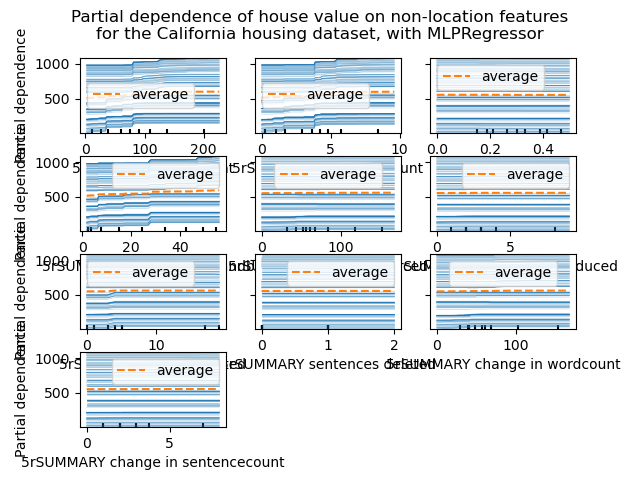
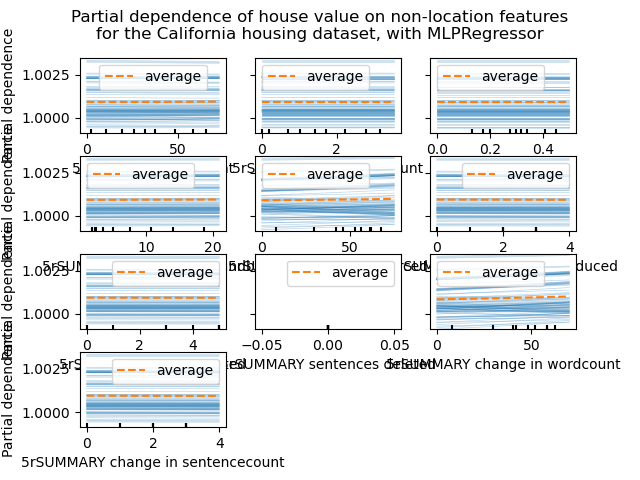
continuous ml

diff --git a/backend/roadblock_ml.py b/backend/roadblock_ml.py
@@ -1,4 +1,5 @@
 import pandas as pd
+from regex import R
 from sklearn.model_selection import train_test_split, cross_val_score
 from sklearn.ensemble import RandomForestRegressor, RandomForestClassifier
 from sklearn.tree import DecisionTreeRegressor
@@ -24,12 +25,28 @@ def rb_ml():
     data = data.dropna()
 
     # training and testing sets, 80/20 ratio
-    label = data["roadblock"]
+    label = data["standby"]
+    label = label.shift(periods=-59)
+    label = label.dropna()
+    label = label.astype('int')
 
+    data = data.drop("roadblock", axis=1)
     data = data.drop("5rSUMMARY roadblock number", axis=1)
+    data = data.drop("5rSUMMARY standby", axis=1)
+    data = data.drop("5rSUMMARY number of standby", axis=1)
     data = data.drop("roadblock number", axis=1)
     data = data.drop("Unnamed: 0", axis=1)
-    x_train_set, x_test_set, y_train_set, y_test_set = train_test_split(data, label, test_size=0.4, random_state=42)
+
+    data = data.shift(periods=59)
+    # print(data)
+    data = data.dropna()
+    # print(data)
+    # x_train_set, x_test_set, y_train_set, y_test_set = train_test_split(data, label, test_size=0.4, shuffle=False)
+    x_train_set = data.iloc[:-59 , :]
+    x_test_set = data.tail(59)
+    y_train_set = label.iloc[:-59]
+    y_test_set = label.tail(59)
+    print(y_test_set)
 
     # models
     svc = SVC()
@@ -67,9 +84,9 @@ def rb_ml():
     print(roadblock_f1_score)
     precision, recall, thresholds = precision_recall_curve(y_test_set, testing_predictions)
     # pr, tpr, thresholds = roc_curve(y_test_set, scores)
-    plt.plot(thresholds, precision[:-1], label='precision')
+    # plt.plot(thresholds, precision[:-1], label='precision')
     # plt.plot(thresholds, recall[:-1], label='recall')
-    plt.show()
+    # plt.show()
     # print(fpr)
     # print(tpr)
 
@@ -104,10 +121,11 @@ def rb_ml():
     # plt.gcf()
     # plt.gca()
     # plt.use('Agg')
+    """
     display = PartialDependenceDisplay.from_estimator(
         svc,
         x_train_set,
-        features=["5rSUMMARY wordcount", "5rSUMMARY sentencecount", "5rSUMMARY standby", "5rSUMMARY number of standby", "5rSUMMARY words produced", "5rSUMMARY sentences produced", "5rSUMMARY words deleted", "5rSUMMARY sentences deleted", "5rSUMMARY change in wordcount", "5rSUMMARY change in sentencecount"],
+        features=["5rSUMMARY wordcount", "5rSUMMARY sentencecount", "5rSUMMARY standby", "5rSUMMARY number of standby", "5rSUMMARY words produced", "5rSUMMARY sentences produced", "5rSUMMARY words deleted", "5rSUMMARY sentences deleted", "5rSUMMARY change in wordcount", "5rSUMMARY change in sentencecount", "5rSUMMARY standby"],
         kind="both"
     )
 
@@ -115,10 +133,11 @@ def rb_ml():
         "Partial dependence of house value on non-location features\n"
         "for the California housing dataset, with MLPRegressor"
     )
-    display.figure_.subplots_adjust(hspace=0.3)
+    """
+    # display.figure_.subplots_adjust(hspace=0.3)
 
-    plt.savefig('name.png')
-    os.system('eog name.png &')
+    # plt.savefig('name.png')
+    # os.system('eog name.png &')
 
     confidence = 0.95
     squared_errors = (testing_predictions - y_test_set)**2
@@ -129,3 +148,8 @@ def rb_ml():
     # search for best hyperparameters
     # grid_search = GridSearchCV(random_forest, param_grid, cv=[], scoring='r2', return_train_score=True)
     # grid_search.fit(x_train_set, y_train_set)
+    
+    print(testing_predictions)
+    return testing_predictions[-1]
+
+rb_ml()

diff --git a/backend/keyboard_features.py b/backend/keyboard_features.py
@@ -17,7 +17,6 @@ class keyboard():
         self.previous_charcount = 0
         self.PAGE_LENGTH = 4002
 
-        self.columns = 0
         self.counter = 0
         self.completion = False
         self.roadblock = False
@@ -179,12 +178,24 @@ class keyboard():
         self.keyboard_training_features = pd.concat([self.keyboard_training_features, self.history_dffeatures], axis=0)  
         self.row_index += 1
 
+        """
         if self.columns == 0:
             # every 5s append one row to existing csv file to update records
             self.keyboard_training_features.loc[self.row_index - 1:self.row_index].to_csv('keyboard1.csv', mode='a', header=True)
         else:
             self.keyboard_training_features.loc[self.row_index - 1:self.row_index].to_csv('keyboard1.csv', mode='a', header=False)
         self.columns += 1
+        """
+
+        keyboard2 = None
+        try:
+            keyboard2 = pd.read_csv('keyboard2.csv')
+        except:
+            keyboard2 = pd.DataFrame()
+            # every 5s append one row to existing csv file to update records
+            self.keyboard_training_features.loc[self.row_index - 1:self.row_index].to_csv('keyboard2.csv', mode='a', header=True)
+        if not keyboard2.empty:
+            self.keyboard_training_features.loc[self.row_index - 1:self.row_index].to_csv('keyboard2.csv', mode='a', header=False)
         # label is sum of future words produced data
         # self.training_label = self.history_dffeatures["words produced"][-300:].sum()
         # print(self.training_label)
@@ -207,6 +218,7 @@ class keyboard():
         else:
             self.roadblock = False
 
+        if (time.time - self.start_time >= )
         self.previous_saved_charcount = self.saved_charcount
         self.saved_charcount = charcount
         self.previous_saved_wordcount = self.saved_wordcount
